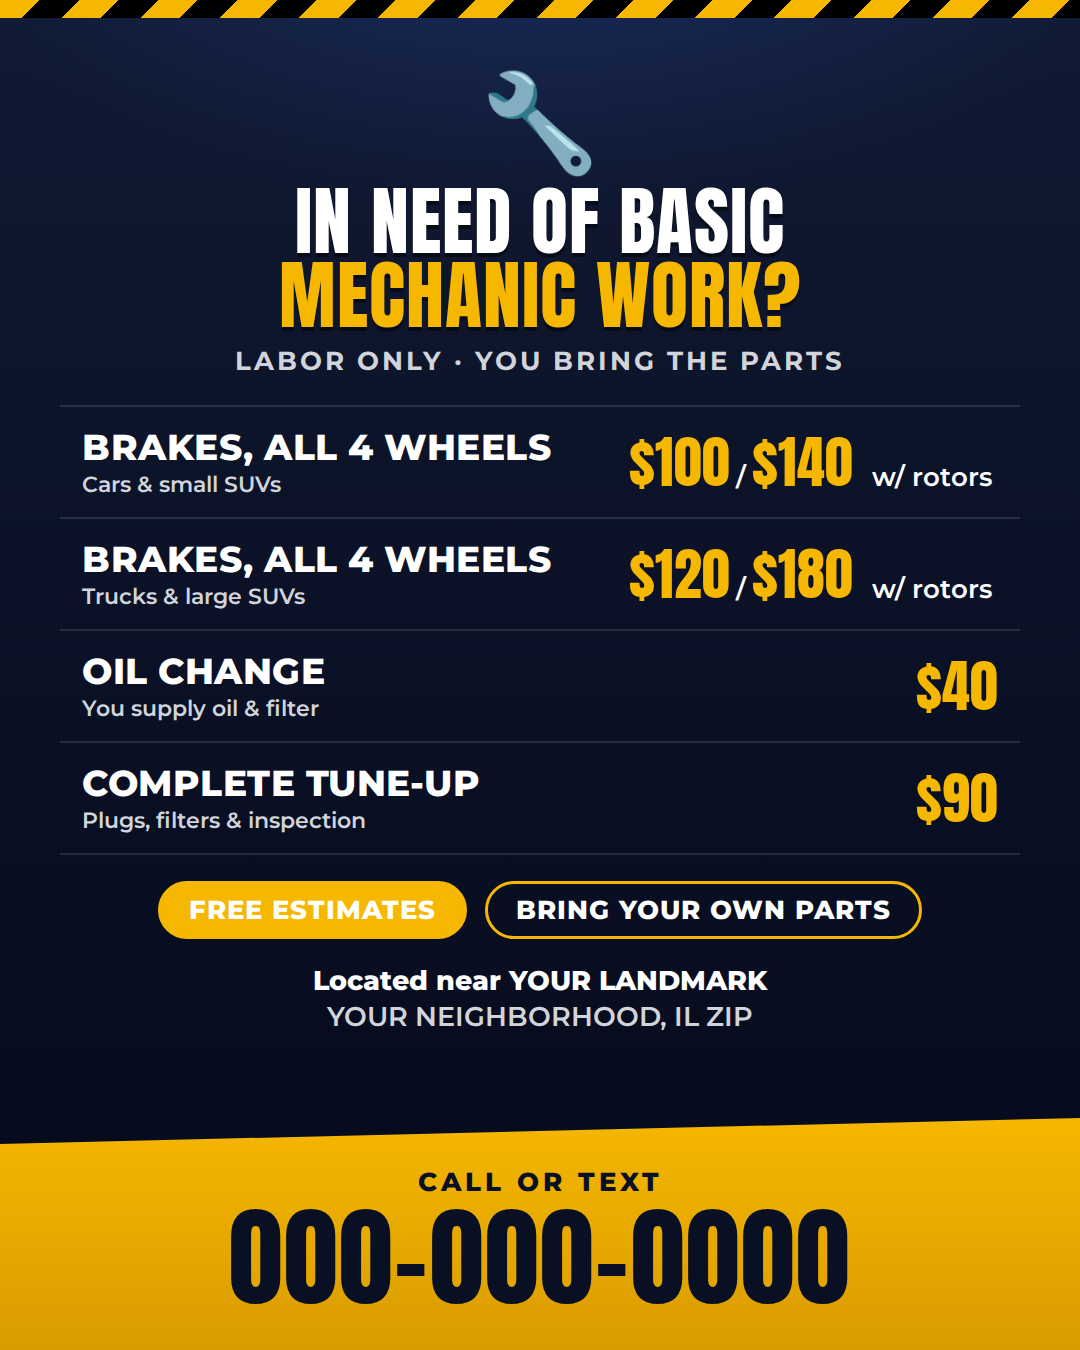
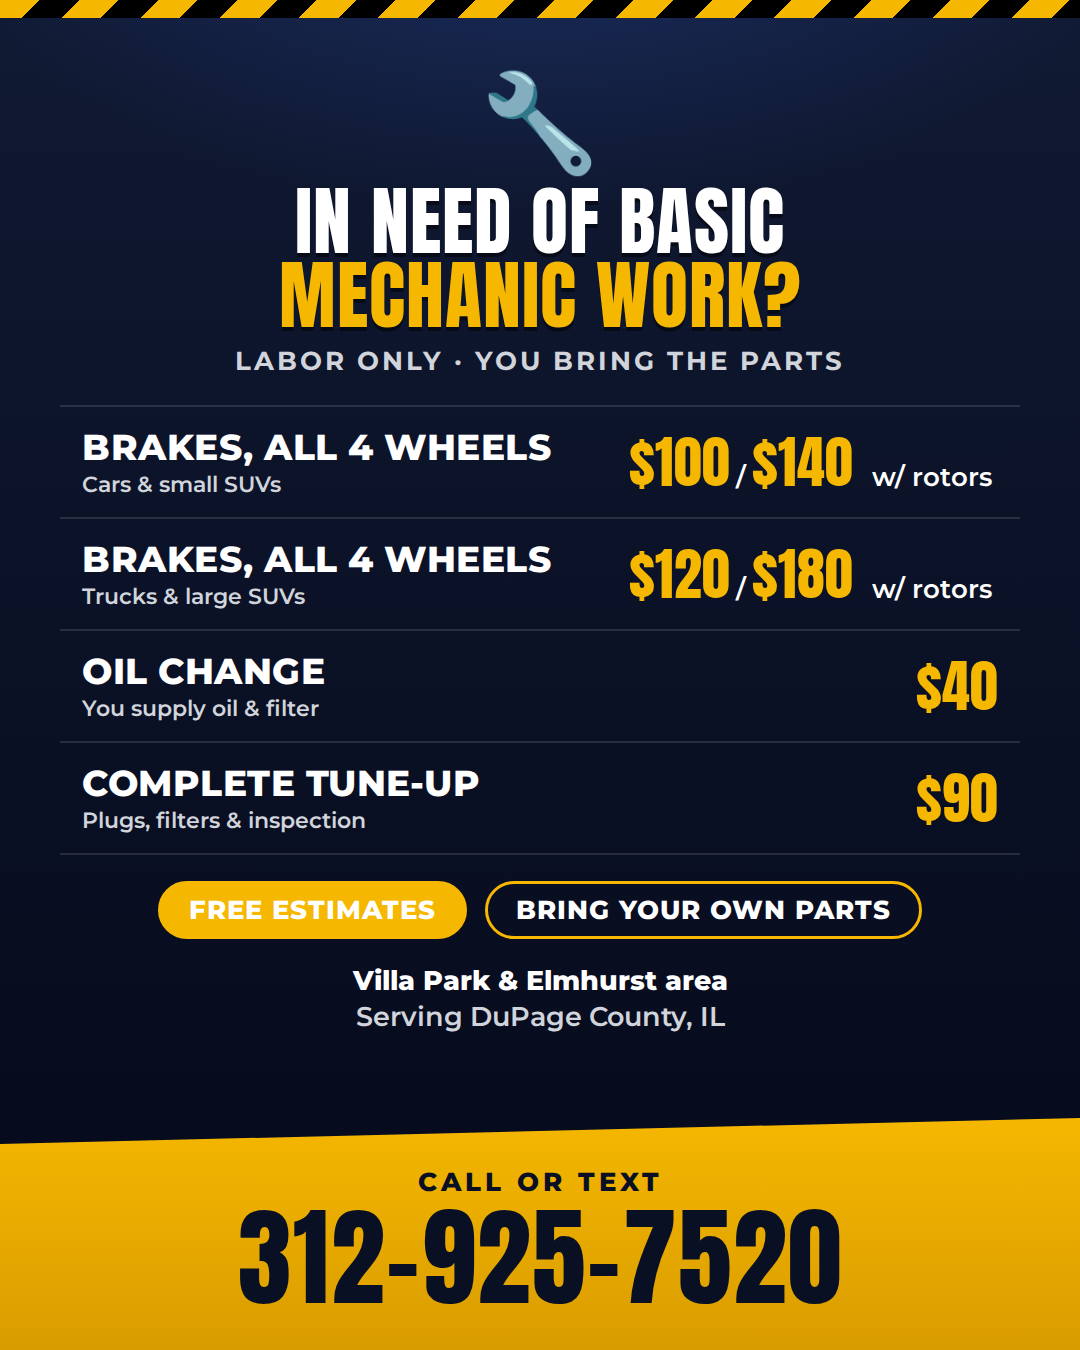
Fill in phone and Villa Park/Elmhurst area on mechanic ad
Claude-Session: https://claude.ai/code/session_01HnMhHV22KdRL8trTpqeTYA

Changed region(s): [[0.2139, 0.9022, 0.7944, 0.9644], [0.275, 0.7156, 0.7028, 0.7778]]

diff --git a/docs/marketing/facebook-mechanic-ad/ad.html b/docs/marketing/facebook-mechanic-ad/ad.html
@@ -109,13 +109,13 @@
   </div>
 
   <div class="loc">
-    <b>Located near YOUR LANDMARK</b><br>
-    YOUR NEIGHBORHOOD, IL ZIP
+    <b>Villa Park &amp; Elmhurst area</b><br>
+    Serving DuPage County, IL
   </div>
 
   <div class="call">
     <div class="label">Call or text</div>
-    <div class="phone">000-000-0000</div>
+    <div class="phone">312-925-7520</div>
   </div>
 </div>
 </body>

diff --git a/docs/marketing/facebook-mechanic-ad/listing-copy.md b/docs/marketing/facebook-mechanic-ad/listing-copy.md
@@ -1,12 +1,11 @@
 # Facebook Marketplace listing — Basic Mechanic Work
 
 Paste these into the Marketplace "Create new listing" form. Upload
-`ad-1080x1350.png` as the photo. Replace the ALL-CAPS placeholders
-(YOUR NUMBER, YOUR LANDMARK, YOUR NEIGHBORHOOD) before posting.
+`ad-1080x1350.png` as the photo. 
 
 ## Title (max 100 characters)
 
-Basic Mechanic Work – Brakes $100+, Oil Change $40, Tune-Up $90 – Bring Your Own Parts
+Basic Mechanic Work – Brakes $100+, Oil Change $40, Tune-Up $90 – Villa Park / Elmhurst
 
 ## Category
 
@@ -30,18 +29,18 @@ In need of basic mechanic work? Labor-only pricing, you bring the parts.
 ✅ Must bring your own parts
 ✅ Cash or Zelle
 
-📍 Located near YOUR LANDMARK, YOUR NEIGHBORHOOD ZIP
+📍 Villa Park / Elmhurst area, DuPage County
 
-📞 Call or text YOUR NUMBER. Send your year, make, model and the problem
+📞 Call or text 312-925-7520. Send your year, make, model and the problem
 and I will let you know what it will run.
 
 ## Tags
 
 mechanic, brakes, oil change, tune up, auto repair, mobile mechanic,
-YOUR NEIGHBORHOOD, Chicago
+Villa Park, Elmhurst, Lombard, Addison, DuPage
 
 ## Short version (for a Facebook post or story)
 
 In need of basic mechanic work? Brakes from $100, oil change $40, tune-up
-$90. Free estimates, bring your own parts. Near YOUR LANDMARK. Call or
-text YOUR NUMBER.
+$90. Free estimates, bring your own parts. Villa Park / Elmhurst area. Call or
+text 312-925-7520.

diff --git a/docs/marketing/facebook-mechanic-ad/README.md b/docs/marketing/facebook-mechanic-ad/README.md
@@ -1,7 +1,7 @@
 # Facebook Marketplace ad — Basic Mechanic Work (independent, no branding)
 
 - `ad-1080x1350.png` — the finished ad image (4:5, Marketplace / feed friendly).
-- `ad.html` — editable source. Replace the phone number and location placeholders, change prices, and
+- `ad.html` — editable source. Change prices, phone, or location in
   the HTML and re-render.
 - `listing-copy.md` — title, description, and tags for the Marketplace form.
 - `fonts/` — Anton and Montserrat (Google Fonts, OFL) so the render does
